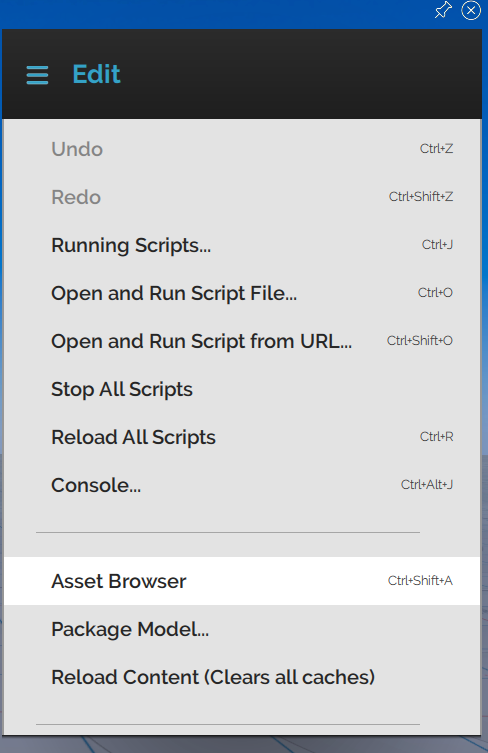
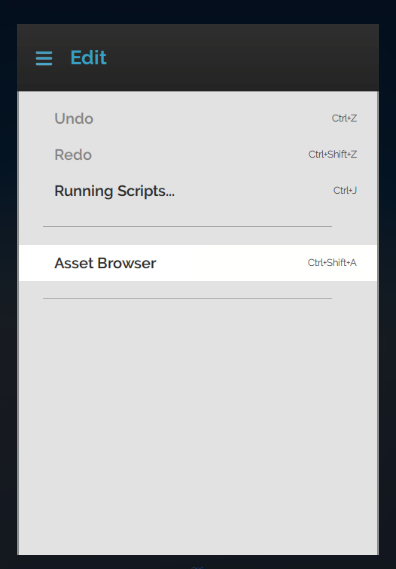
8586: Updated Asset Browser screenshots in all applicable docs and updated Baking doc with latest verbiage.

diff --git a/02.create-and-explore/03.start-working-in-your-sandbox/03.assignment-clients/01.baking/docs.md b/02.create-and-explore/03.start-working-in-your-sandbox/03.assignment-clients/01.baking/docs.md
@@ -28,10 +28,10 @@ In High Fidelity, baking helps in improving the efficiency with which models are
 >>>>> You can only bake objects that have the extension .fbx, in domains where you have create access. You cannot bake .fbx objects referencing external textures. Only .fbx objects with embedded textures can be baked. 
 
 
-* You can check if the assets in the domain have been baked by checking the "Use Baked?" column next to each asset in the asset browser. 
-  * An asset that has already been baked will have a triangular sign under the "Use Baked?" column, signifying that it has already been baked and cannot be baked again. This symbol also shows up when there have been errors while baking an asset. ![](baked.PNG)
-  * When you uncheck the "Use baked (optimized) version" checkbox for assets that have already been baked, they will have a stop symbol in the under "Use Baked?" column. After you uncheck the checkbox, you have to reload Interface to use the unbaked version. ![](uncheck-bake.PNG)
-  * When an asset cannot be baked, it will have two dashes next to it under the "Use Baked?" column. ![](no-bake.PNG)
+* You can check if the assets in the domain have been baked by checking the "Use Baked" column next to each asset in the asset browser. 
+  * An asset that has already been baked will have a triangular sign under the "Use Baked" column, signifying that it has already been baked and cannot be baked again. This symbol also shows up when there have been errors while baking an asset. ![](baked.PNG)
+  * When you uncheck the "Use baked version" checkbox for assets that have already been baked, they will have a stop symbol in the under "Use Baked" column. After you uncheck the checkbox, you have to reload Interface to use the unbaked version. ![](uncheck-bake.PNG)
+  * When an asset cannot be baked, it will have two dashes next to it under the "Use Baked" column. ![](no-bake.PNG)
 
 When you first launch your asset browser with the baking feature, all assets that can be baked will be baked. This is a one-time process. Any models or skyboxes you add to your domain afterwards, will be baked on upload. 
 
@@ -56,7 +56,7 @@ Your avatar's .fst file is linked to the .fbx file and also contains the texdir 
 If you decide to upload an avatar to the asset server, here are some points to keep in mind before baking the avatar:
 
 * When you bake the .fbx file of an avatar (.fst) that has a texdir, the textures for the baked avatar will fail to load. To load the avatar with its textures, you can either:
-  * Not bake the avatar by unchecking the box "Use baked (optimized) version" in the Asset Browser. 
+  * Not bake the avatar by unchecking the box "Use baked version" in the Asset Browser. 
   * Embed the textures in the avatar's .fbx file, ensure that the .fst file doesn't contain the texdir, and then upload it to the asset server for baking. 
 
 
